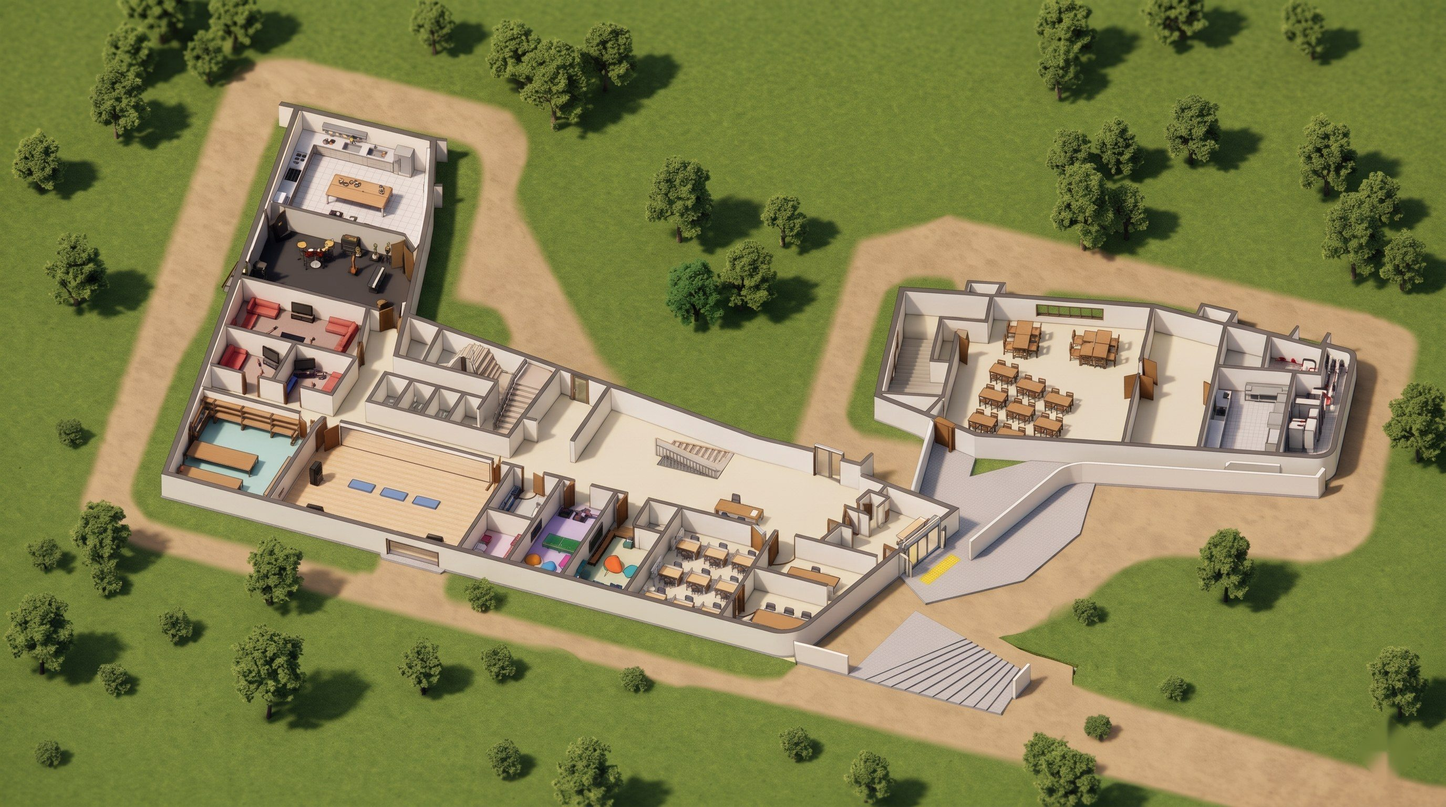
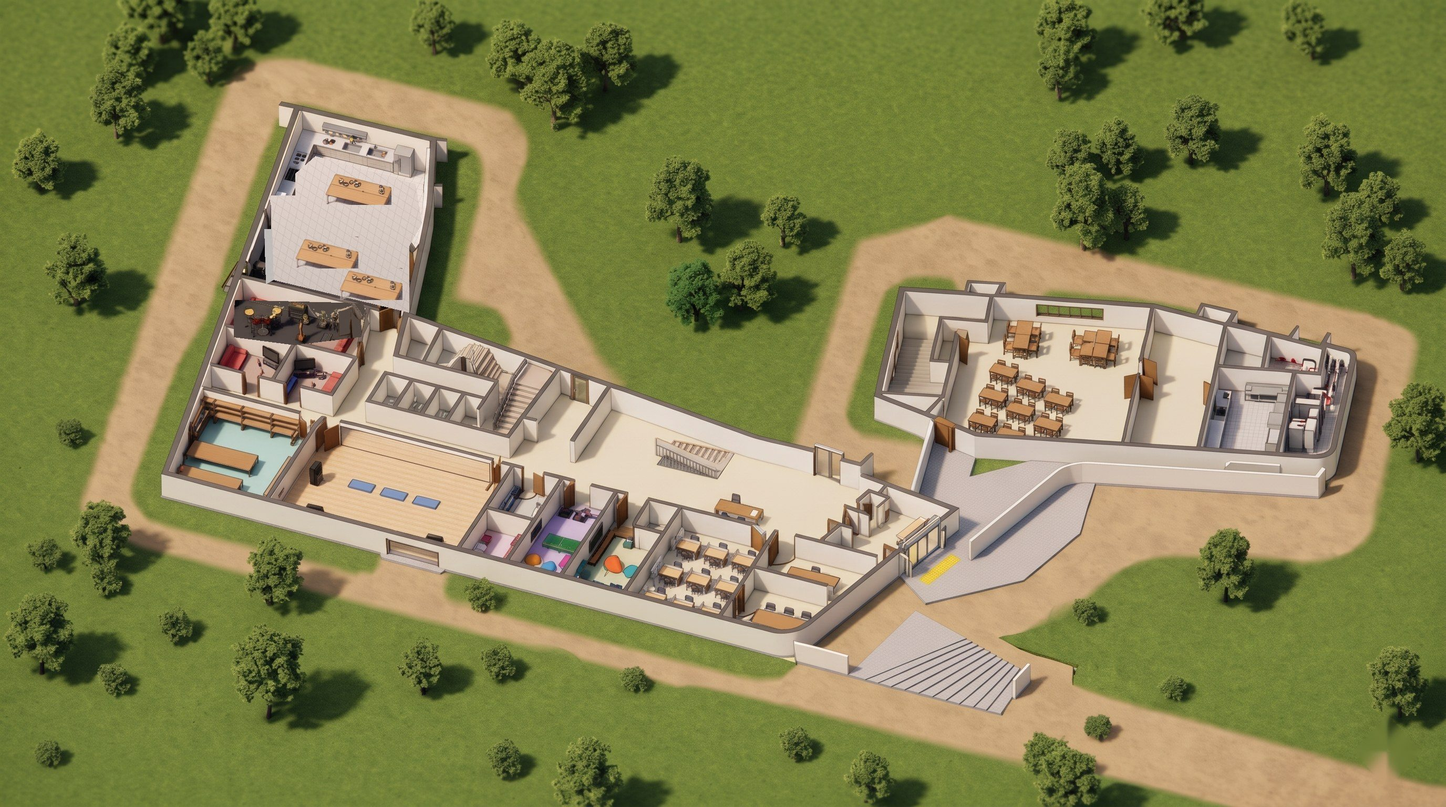
Add files via upload

Changed region(s): [[0.1562, 0.1875, 0.2812, 0.4375]]

diff --git a/index.html b/index.html
@@ -340,8 +340,8 @@
       { name:'외부 계단', x:1804, y:1228, r:70, door:true, stair:2, useF:true, at:[1700,1160] },
       { name:'식당 입구', x:1783, y:833, r:45, door:true, exit:true, out:[1470,890] },
       { name:'안내데스크', x:1395, y:979, r:50, color:'#E0C097', desc:'처음 오셨다면 여기서 이용 방법과 프로그램을 안내받을 수 있어요.', link:'#안내', linkLabel:'이용 안내' },
-      { name:'보글보글실(요리수업)', x:620, y:555, r:85, color:'#9BC53D', desc:'요리 수업이 열리는 조리 실습실이에요.', link:'#프로그램', linkLabel:'프로그램 보기' },
-      { name:'들락날락(밴드연습실)', x:555, y:624, r:60, color:'#E4572E', desc:'악기와 음향 장비가 있는 밴드 연습실이에요.', link:'#동아리', linkLabel:'동아리 보기' },
+      { name:'보글보글실(요리수업)', x:650, y:460, r:120, color:'#9BC53D', desc:'요리 수업이 열리는 조리 실습실이에요.', link:'#프로그램', linkLabel:'프로그램 보기' },
+      { name:'들락날락(밴드연습실)', x:560, y:614, r:70, color:'#E4572E', desc:'악기와 음향 장비가 있는 밴드 연습실이에요.', link:'#동아리', linkLabel:'동아리 보기' },
       { name:'와글와글(노래방)', x:479, y:674, r:50, color:'#E96A8A', desc:'친구들과 노래 부르는 방이에요.', link:'#이용', linkLabel:'이용 방법' },
       { name:'시끌벅적(노래방)', x:600, y:700, r:50, color:'#E96A8A', desc:'노래방 두 번째 방이에요.', link:'#이용', linkLabel:'이용 방법' },
       { name:'상상스튜디오', x:455, y:843, r:100, color:'#5BC8D8', desc:'만들고 그리고 상상하는 창작 공간이에요.', link:'#프로그램', linkLabel:'프로그램 보기' },
